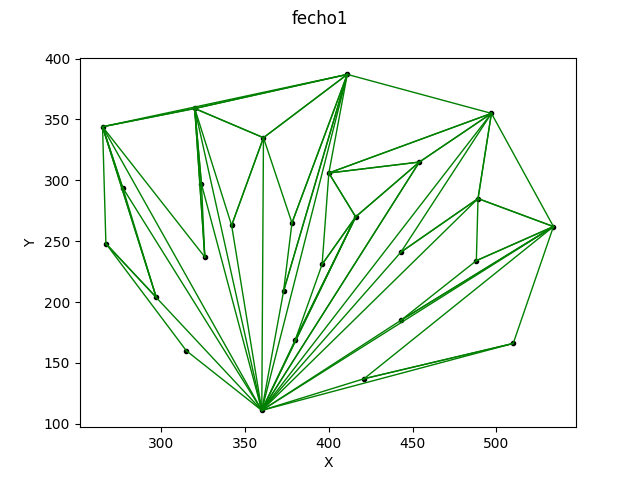
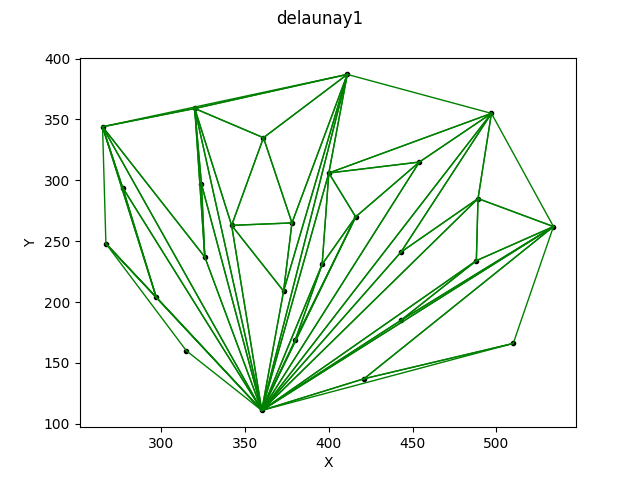
- Modificated how to evaluate if a triangle in fatter

diff --git a/delaunay_flip_triangulation.py b/delaunay_flip_triangulation.py
@@ -42,12 +42,6 @@ def convex_angle(point_1, point_2, point_3):
               (point_2[1] - point_1[1]) * (point_3[0] - point_1[0]))
     return crossp > 0
 
-# point_1 = [421, 137]
-# point_2 = [360, 111]
-# point_3 = [510, 166]
-# result = convex_angle(point_1, point_2, point_3)
-# print(result)
-
 def calculate_angle(a, b, c):
     ba = a - b
     bc = c - b
@@ -56,12 +50,6 @@ def calculate_angle(a, b, c):
     angle = np.arccos(cosine_angle)
 
     return np.degrees(angle)
-
-# a = np.array([1, 0.7])
-# b = np.array([0, 0])
-# c = np.array([1, 0])
-# angle = calculate_angle(a, b, c)
-# print(angle)
 
 def flip(triangle_1, triangle_2):
     vertex_list = [triangle_1[0], triangle_1[1], triangle_1[2], triangle_2[0], triangle_2[1], triangle_2[2]]
@@ -84,10 +72,6 @@ def flip(triangle_1, triangle_2):
 
     return new_triangle_1, new_triangle_2
 
-# triangle_1 = [25, 13, 20]
-# triangle_2 = [13, 26, 20]
-# n_t1, n_t2 = flip(triangle_1, triangle_2)
-
 def convex_polygon(triangle_1, triangle_2, points):
     vertex_to_verify = []
     triangles = [triangle_1, triangle_2]
@@ -105,73 +89,6 @@ def convex_polygon(triangle_1, triangle_2, points):
             break
 
     return is_convex_polygon
-
-    # edges_to_use = []
-    # vertex_of_triangles = []
-    # points_to_verify_convexity = []
-    # triangles = [triangle_1, triangle_2]
-    # combination_edges = [[0,1], [0, 2], [1, 2]]
-
-    # # Take all edges of triangles
-    # for triangle in triangles:
-    #     for edge in combination_edges:
-    #         edges_to_use.append([triangle[edge[0]], triangle[edge[1]]])
-    #     for i in range(3):
-    #         vertex_of_triangles.append(triangle[i])
-
-    # # Delete commom edges
-    # edges_to_delete = []
-    # for i in range(len(edges_to_use)):
-    #     if all(elem in edges_to_use[i] for elem in commom_edge):
-    #         edges_to_delete.append(i)
-
-    # edges_to_delete.sort(reverse=True)
-    # for index_edge_to_delete in edges_to_delete:
-    #     edges_to_use.pop(index_edge_to_delete)
-
-    # # Delete duplicated vertexes
-    # # vertex_of_triangles = list(set(vertex_of_triangles))
-    # vertex_of_triangles = list(dict.fromkeys(vertex_of_triangles))
-
-    # for vertex in vertex_of_triangles:
-    #     points_to_verify = []
-    #     edges_repeated_elements = []
-    #     for edge in edges_to_use:
-    #         if vertex in edge:
-    #             edges_repeated_elements.append(edge)
-    #     for edge in edges_repeated_elements:
-    #         points_to_verify.append(edge[0])
-    #         points_to_verify.append(edge[1])
-
-    #     # From 4 points take 3 not repeated and leave the repeated in the middle of the other two
-    #     points_to_verify.sort()
-    #     repeated_point = None
-    #     for i in range(1, len(points_to_verify)):
-    #         if points_to_verify[i - 1] == points_to_verify[i]:
-    #             repeated_point = points_to_verify[i]
-    #             break
-    #     points_in_order = []
-    #     for point in points_to_verify:
-    #         if point != repeated_point:
-    #             points_in_order.append(point)
-        
-    #     points_in_order.insert(1, repeated_point)
-    #     # points_in_order.sort()
-    #     points_to_verify_convexity.append(points_in_order)
-    
-    # is_convex_polygon = True
-    # for index_points in points_to_verify_convexity:
-    #     if not convex_angle(points[index_points[0]], points[index_points[1]], points[index_points[2]]):
-    #         is_convex_polygon = False
-    #         break
-
-    # return is_convex_polygon
-
-# # Chamada convex_polygon
-# triangle_1 = [25, 13, 20]
-# triangle_2 = [13, 26, 20]
-# points = np.loadtxt("dataset/fecho1.txt").astype(np.float)
-# convex_polygon(triangle_1, triangle_2, points)
 
 def create_data_structure(triangulation_indexes):
     data_structure = []
@@ -200,11 +117,12 @@ def update_data_structure(new_triangle_1, new_triangle_2, index_1, index_2, tria
     triangles_to_update = [new_triangle_1, new_triangle_2]
     index_triangles_to_update = [index_1, index_2]
 
+    index_neibourhood_to_update = []
     for i, index_triangle in enumerate(index_triangles_to_update):
-        index_neibourhood_to_update = []
         for j, vertex in enumerate(triangles_to_update[i]):
             triangulation[index_triangle][j] = vertex
-            index_neibourhood_to_update.append(triangulation[index_triangle][j + 3])
+            if triangulation[index_triangle][j + 3] != None:
+                index_neibourhood_to_update.append(triangulation[index_triangle][j + 3])
 
     for index_triangle in index_neibourhood_to_update:
         if index_triangle not in index_triangles_to_update:
@@ -249,12 +167,13 @@ def get_angle_polygon(triangle_1, triangle_2, points):
     angle_list = []
 
     for triangle in triangles:
-        for i, vertex in enumerate(triangle):
-            # TODO Verificar se sempre tenho um ponto diferente no meio
-            angle = calculate_angle(points[vertex[i]], points[vertex[(i + 1) % 3]], points[vertex[(i + 2) % 3]])
+        for i in range(len(triangle)):
+            angle = calculate_angle(points[triangle[i]], points[triangle[(i + 1) % 3]], points[triangle[(i + 2) % 3]])
             angle_list.append(angle)
 
-    return angle_list.sort()
+    angle_list.sort()
+
+    return angle_list
 
 def fatter_triangulation(angles_before_flip, angles_after_flip):
     fatter = False
@@ -263,22 +182,67 @@ def fatter_triangulation(angles_before_flip, angles_after_flip):
         if angles_after_flip[k] > angles_before_flip[k]:
             fatter = True
             break
+        elif angles_after_flip[k] < angles_before_flip[k]:
+            break
 
     return fatter
 
-def delaunay_triangulation(triangulation, points):
-    for i, triangle in enumerate(triangulation):
-        for j in range(3, 6):
-            if triangle[j] is not None and triangle[j] > i:
-                triangle_1 = [triangle[0], triangle[1], triangle[2]]
-                triangle_2 = [triangulation[triangle[j]][0], triangulation[triangle[j]][1], triangulation[triangle[j]][2]]
-                if convex_polygon(triangle_1, triangle_2, points):
-                    angles_before_flip = get_angle_polygon(triangle_1, triangle_2, points)
-                    new_triangle_1, new_triangle_2 = flip(triangle_1, triangle_2)
-                    angles_after_flip = get_angle_polygon(new_triangle_1, new_triangle_2, points)
+def make_flip(triangle_1, triangle_2, points):
+    a = points[triangle_1[0]]
+    b = points[triangle_1[1]]
+    c = points[triangle_1[2]]
+    d = None
 
-                    if fatter_triangulation(angles_before_flip, angles_after_flip):
-                        triangulation = update_data_structure(new_triangle_1, new_triangle_2, i, triangle[j], triangulation)
+    for element_triangle_2 in triangle_2:
+        in_triangle_1 = False
+        for element_triangle_1 in triangle_1:
+            if element_triangle_2 == element_triangle_1:
+                in_triangle_1 = True
+                break
+        if not in_triangle_1:
+            d = points[element_triangle_2]
+
+    first_column = np.array([a[0] - d[0], b[0] - d[0], c[0] - d[0]])
+    second_column = np.array([a[1] - d[1], b[1] - d[1], c[1] - d[1]])
+    third_column = np.array([np.square(a[0] - d[0]) + np.square(a[1] - d[1]), np.square(b[0] - d[0]) + np.square(b[1] - d[1]), np.square(c[0] - d[0]) + np.square(c[1] - d[1])])
+
+    matrix = np.matrix([first_column, second_column, third_column])
+
+    determinant = np.linalg.det(matrix.T)
+
+    return determinant > 0
+
+def delaunay_triangulation(data_triangulation, points):
+    triangulation = deepcopy(data_triangulation)
+
+    end_triangulation = False
+
+    while not end_triangulation:
+        end_triangulation = True
+        print("While Triangulation")
+
+        for i, triangle in enumerate(triangulation):
+            for j in range(3, 6):
+                # if triangle[j] is not None and triangle[j] > i:
+                if triangle[j] is not None:
+                    triangle_1 = [triangle[0], triangle[1], triangle[2]]
+                    triangle_2 = [triangulation[triangle[j]][0], triangulation[triangle[j]][1], triangulation[triangle[j]][2]]
+                    if convex_polygon(triangle_1, triangle_2, points):
+                        # print("Convex Angle")
+                        # angles_before_flip = get_angle_polygon(triangle_1, triangle_2, points)
+                        # new_triangle_1, new_triangle_2 = flip(triangle_1, triangle_2)
+                        # angles_after_flip = get_angle_polygon(new_triangle_1, new_triangle_2, points)
+
+                        # if fatter_triangulation(angles_before_flip, angles_after_flip):
+                        #     print("Fatter Triangulation")
+                        #     end_triangulation = False
+                        #     triangulation = update_data_structure(new_triangle_1, new_triangle_2, i, triangle[j], triangulation)
+
+                        if make_flip(triangle_1, triangle_2, points):
+                            print("Make Flip")
+                            new_triangle_1, new_triangle_2 = flip(triangle_1, triangle_2)
+                            end_triangulation = False
+                            triangulation = update_data_structure(new_triangle_1, new_triangle_2, i, triangle[j], triangulation)
 
     return triangulation
 
@@ -333,6 +297,11 @@ def print_solution(file_name, convex_hull_indexes):
         fp.close()
 
 def draw_polygon(points, convex_hull_indexes, datasetname, triangulation_indexes):
+    rows_to_delete = [5, 4, 3]
+    for row in triangulation_indexes:
+        for index_to_delete in rows_to_delete:
+            del row[index_to_delete]
+
     x_polygon = points[:,0]
     y_polygon = points[:,1]
 
@@ -357,7 +326,8 @@ def draw_polygon(points, convex_hull_indexes, datasetname, triangulation_indexes
     plt.close()
 
 def run():
-    datasets = ["dataset/nuvem1.txt", "dataset/nuvem2.txt", "dataset/nuvem3.txt"]
+    # datasets = ["dataset/nuvem1.txt", "dataset/nuvem2.txt", "dataset/nuvem3.txt"]
+    datasets = ["dataset/nuvem1.txt"]
 
     for dataset in datasets:
         # Dataset path
@@ -370,7 +340,7 @@ def run():
         # Create data structures
         data_triangulation = create_data_structure(triangulation_indexes)
 
-        delaunay_triangulation(data_triangulation, points)
+        final_triangulation = delaunay_triangulation(data_triangulation, points)
 
         # Name of solution file
         output_file_name = 'delaunay{}.txt'.format(INPUT_PATH[-5])
@@ -379,6 +349,6 @@ def run():
         # Dataset name
         datasetname = output_file_name.split(".")[0]
         # Draw solution
-        draw_polygon(points, convex_hull_indexes, datasetname, triangulation_indexes)
+        draw_polygon(points, convex_hull_indexes, datasetname, final_triangulation)
 
 run()
